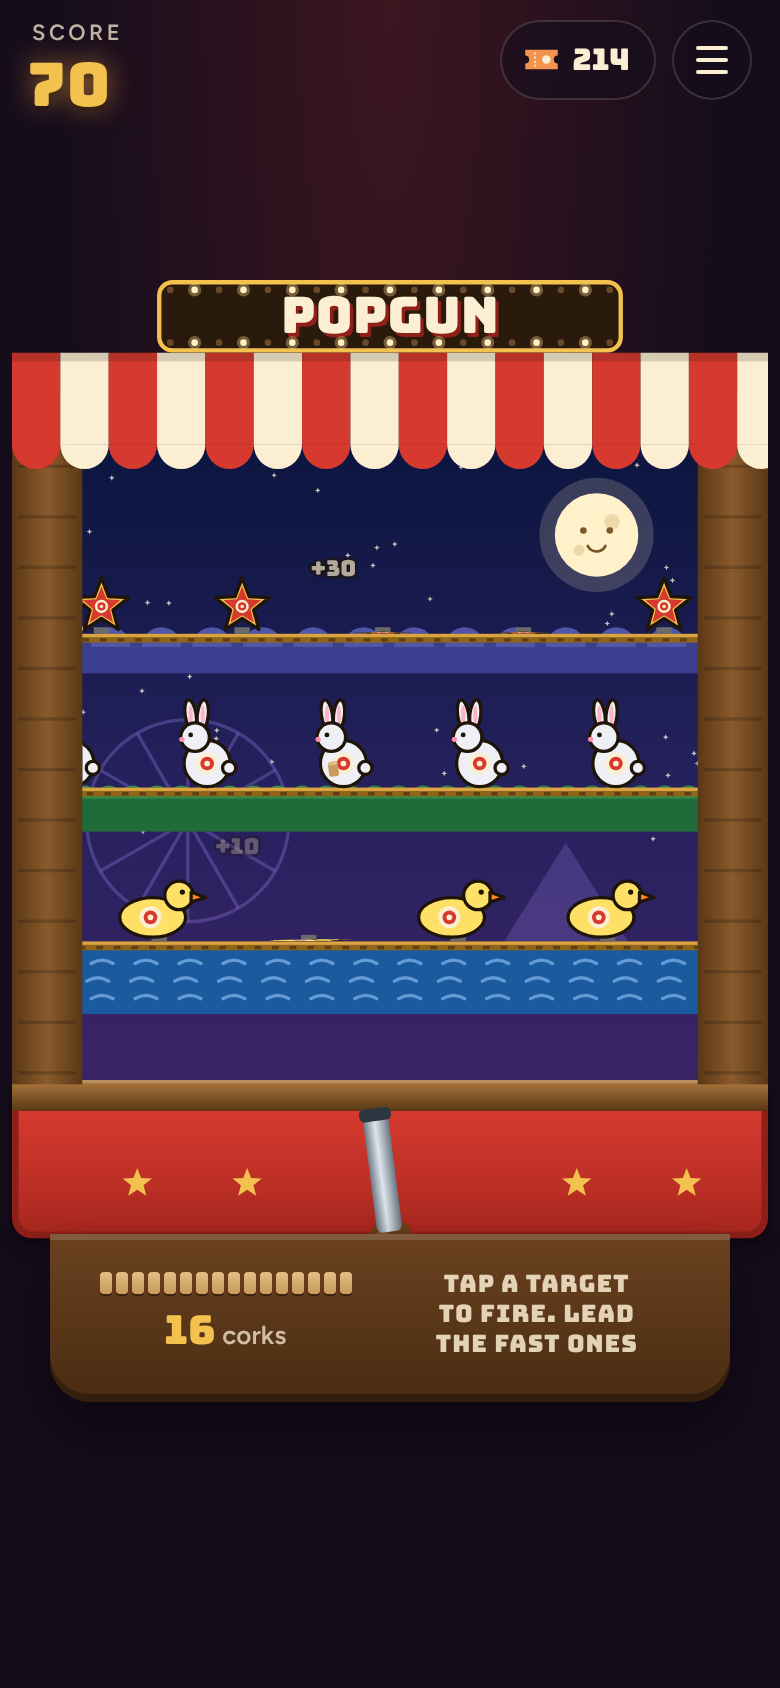
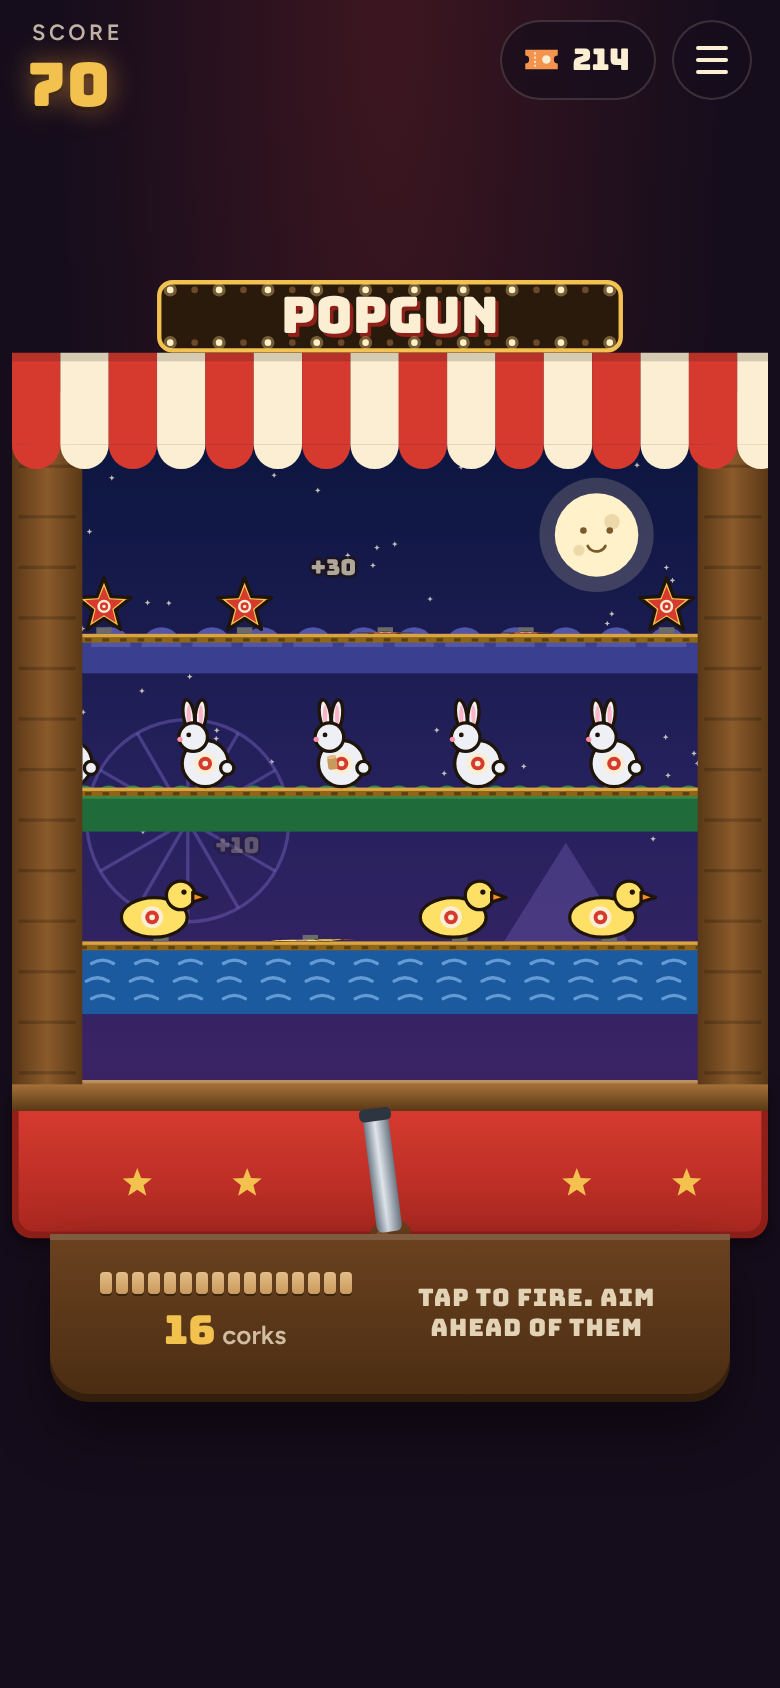
Popgun says aim ahead, and a cork that lands behind its target says so
A cork takes 0.32 s to reach the back of the booth. In that time a star
runs 43 to 67 units and a rabbit 28 to 44, against hit zones of 17.6 and
22.4 either side of their middles, so a tap dead on a rabbit or a star
can never hit it, which is what the title card's 'Tap a target to fire'
invites. The only sign was a 5 px puff in the gap behind the target. The
title card now says to tap where the cork should go and how far ahead to
aim (a little for the ducks, half a rabbit, a whole star), the deck says
'Tap to fire. Aim ahead of them', and so do the README and the page's
description. The gallery notes the tin under the tap as the cork goes,
and a miss at a tin that is still standing says which one it was behind.
The first three of those in a round pop 'Aim ahead!' over a bigger puff.
Nothing about what hits or scores changes.

Claude-Session: https://claude.ai/code/session_01RkvUFhzoaPZyofz3pSrJ5i

diff --git a/popgun/index.html b/popgun/index.html
@@ -5,7 +5,7 @@
   <meta name="viewport" content="width=device-width, initial-scale=1, viewport-fit=cover">
   <script src="../shared/carry.js"></script>
   <title>Popgun · Free Play</title>
-  <meta name="description" content="A carnival shooting gallery on your phone. Tap to fire corks at the tin ducks, rabbits and stars running along the rails, and lead the fast ones. Twenty corks a round, and tickets for your score.">
+  <meta name="description" content="A carnival shooting gallery on your phone. Tap to fire corks at the tin ducks, rabbits and stars running along the rails, and aim ahead of them. Twenty corks a round, and tickets for your score.">
   <meta property="og:title" content="Popgun, at Free Play">
   <meta property="og:description" content="A carnival shooting gallery on your phone: corks, tin ducks and tickets.">
   <meta property="og:image" content="https://free-play.junkdrawer.works/og.png">
@@ -41,7 +41,7 @@
 
   <div class="deck" id="deck">
     <div class="corks" aria-live="polite"><span class="tray" id="tray" aria-hidden="true"></span><span><b id="left">20</b> <span id="corksWord">corks</span></span></div>
-    <span class="say">Tap a target to fire. Lead the fast ones</span>
+    <span class="say">Tap to fire. Aim ahead of them</span>
   </div>
   <p class="sr" id="live" aria-live="polite"></p>
 
@@ -49,7 +49,7 @@
     <a class="floor to-floor" href="../">← Free Play</a>
     <div class="marquee"><h1>Popgun</h1></div>
     <p class="lede">A shooting gallery. Twenty corks, and tin targets running along the rails.</p>
-    <p class="how">Tap a target to fire a cork at it. The cork takes a moment to get there, so aim a little ahead of the fast ones. Ducks are 10, rabbits 20, and the little stars up top 30. A golden duck is 100, and a cork in the bell wins three more corks. Five hits in a row are worth 50 more. A ticket for every 20 points.</p>
+    <p class="how">Tap where you want the cork to go. It takes a moment to get there, so aim ahead of the targets: a little for the ducks, half a rabbit for the rabbits and a whole star for the stars. Ducks are 10, rabbits 20, and the little stars up top 30. A golden duck is 100, and a cork in the bell wins three more corks. Five hits in a row are worth 50 more. A ticket for every 20 points.</p>
     <p class="how keys">With a mouse, click to fire. On a keyboard: the arrows move the sights, and Space fires.</p>
     <div class="row">
       <button type="button" class="big" id="play">Play</button>

diff --git a/popgun/js/draw.js b/popgun/js/draw.js
@@ -174,7 +174,7 @@ export function createDraw(canvas) {
   }
 
   // s: what to draw. g: the gallery. aim: where the gun points ({ x, y }, on the back of the booth). cross: show a
-  // crosshair there. marks: misses on the backdrop ({ x, y, t }). pops: what a hit was worth ({ x, y, text, t, gold }).
+  // crosshair there. marks: misses on the backdrop ({ x, y, t, big }). pops: what a hit was worth ({ x, y, text, t, gold }).
   // recoil: seconds since the last shot. wink: seconds since the moon was hit (or -1). glow: the sign's bulbs blazing.
   function frame(g, { now = 0, aim = { x: W / 2, y: H / 2 }, cross = false, marks = [], pops = [], recoil = 9, wink = -1, glow = 0, jog = -1, ready = true } = {}) {
     const t = now / 1000;
@@ -202,9 +202,10 @@ export function createDraw(canvas) {
     }
     for (const m of marks) {
       ctx.globalAlpha = Math.max(0, 1 - m.t / 1.2);
-      ctx.fillStyle = 'rgba(20, 10, 0, .5)'; ctx.beginPath(); ctx.arc(m.x, m.y, 5, 0, Math.PI * 2); ctx.fill();
+      ctx.fillStyle = 'rgba(20, 10, 0, .5)'; ctx.beginPath(); ctx.arc(m.x, m.y, m.big ? 8 : 5, 0, Math.PI * 2); ctx.fill();
       ctx.strokeStyle = 'rgba(255, 240, 210, .6)'; ctx.lineWidth = 1.5;
-      for (let i = 0; i < 6; i++) { const a = i * Math.PI / 3, r0 = 7 + m.t * 10, r1 = 11 + m.t * 16; ctx.beginPath(); ctx.moveTo(m.x + Math.cos(a) * r0, m.y + Math.sin(a) * r0); ctx.lineTo(m.x + Math.cos(a) * r1, m.y + Math.sin(a) * r1); ctx.stroke(); }
+      const k = m.big ? 1.5 : 1;
+      for (let i = 0; i < 6; i++) { const a = i * Math.PI / 3, r0 = 7 * k + m.t * 10, r1 = 11 * k + m.t * 16; ctx.beginPath(); ctx.moveTo(m.x + Math.cos(a) * r0, m.y + Math.sin(a) * r0); ctx.lineTo(m.x + Math.cos(a) * r1, m.y + Math.sin(a) * r1); ctx.stroke(); }
     }
     ctx.globalAlpha = 1;
     for (const row of g.rows) for (const tg of row.targets) target(ctx, tg.kind, tg.x, row.rail, row.dir, tg.down, t);

diff --git a/popgun/js/gallery.js b/popgun/js/gallery.js
@@ -90,7 +90,9 @@ export function createGallery({ random = Math.random } = {}) {
     if (!corks || reload > 0 || over) return false;
     corks--; shots++;
     reload = RELOAD;
-    flights.push({ to: { x, y }, t: 0 });
+    // the tin under the tap as it fires: if the cork misses and that tin's still standing, it ran on ahead of the cork
+    const at = targetAt(x, y);
+    flights.push({ to: { x, y }, t: 0, at: at && at.t, kind: at && at.t.kind });
     events.push('pop');
     return true;
   }
@@ -98,7 +100,12 @@ export function createGallery({ random = Math.random } = {}) {
   // A cork arriving: it knocks over whatever it meets there, or thuds into the backdrop.
   function land(f) {
     const at = targetAt(f.to.x, f.to.y);
-    if (!at) { streak = 0; events.push({ miss: true, x: f.to.x, y: f.to.y }); return; }
+    if (!at) {
+      streak = 0;
+      const behind = f.at && !f.at.hit && f.at.kind === f.kind ? f.kind : undefined;
+      events.push(behind ? { miss: true, x: f.to.x, y: f.to.y, behind } : { miss: true, x: f.to.x, y: f.to.y });
+      return;
+    }
     const { t } = at, k = KINDS[t.kind];
     t.hit = true;
     hits++; streak++;
@@ -124,7 +131,8 @@ export function createGallery({ random = Math.random } = {}) {
     get ready() { return reload === 0 && corks > 0 && !over; },
     get over() { return over; },
     // what's happened since the last look: 'pop', { hit, x, y, points, corks, run }, { miss, x, y }, 'over', and
-    // { arrive, x, y } as a golden duck or a bell comes round into view
+    // { arrive, x, y } as a golden duck or a bell comes round into view. A miss at a tin that was under the tap when
+    // the cork went, and has run on ahead of it, says which: { miss, x, y, behind: 'star' }.
     take() { const e = events; events = []; return e; },
   };
 }

diff --git a/popgun/js/app.js b/popgun/js/app.js
@@ -65,13 +65,14 @@ let gallery = createGallery();
 let mode = 'title';           // title → play → over
 let aim = { x: W / 2, y: H / 2 }, cross = false, recoil = 9, wink = -1, glow = 0, jog = -1, paused = false, timeScale = 1;
 let endIn = 0;                // seconds from the last cork landing to the end card, on the round's clock (it waits while paused)
+let told = 0;                 // how many times this round a cork that landed behind its target has said 'Aim ahead!'
 const marks = [], pops = [];
 const carded = () => !$('title').hidden || !$('over').hidden || !$('menu').hidden || counterOpen();
 
 function newRound() {
   gallery = createGallery();
   mode = 'play';
-  marks.length = 0; pops.length = 0; endIn = 0;
+  marks.length = 0; pops.length = 0; endIn = 0; told = 0;
   hud();
 }
 
@@ -99,7 +100,11 @@ function happened() {
     else if (e.miss) {
       const moon = Math.hypot(e.x - MOON.x, e.y - MOON.y) < MOON.r;
       if (moon) { wink = 0; sound.boing(); } else sound.miss();
-      marks.push({ x: e.x, y: e.y, t: 0 });
+      // A cork that landed behind the tin it was fired at, which ran on while it flew: the first few times in a round,
+      // a bigger puff and a word, since a tap dead on a rabbit or a star can't ever catch it.
+      const ahead = e.behind && told < 3;
+      if (ahead) { told++; pops.push({ x: Math.max(80, Math.min(W - 80, e.x)), y: e.y, text: 'Aim ahead!', t: 0 }); }
+      marks.push({ x: e.x, y: e.y, t: 0, big: ahead });
     } else if (e.hit) {
       sound.hit(e.hit);
       if (e.corks) { pops.push({ x: e.x, y: e.y, text: `+${e.corks} corks`, t: 0, gold: true }); say(`The bell! ${e.corks} more corks.`); }

diff --git a/README.md b/README.md
@@ -118,8 +118,8 @@ A stacker: a tower against a night skyline, its windows the grid, seven across a
 
 A carnival shooting gallery: a booth with a striped awning, a painted night fair behind, and three rows of tin targets running along brass rails, each row the other way from the one below.
 
-- **Tap a target to fire** a cork at it from the popgun on the counter. (With a mouse, the pointer becomes the sights; on a keyboard, the arrows move them and Space fires.) A round is 20 corks, and the gun takes a moment to reload between them.
-- **Lead the fast ones.** A cork takes about a third of a second to reach the back of the booth, and the targets keep moving, so aim a little ahead of them: a little for the ducks, more than a star's width for the stars. Each row's motor surges a bit faster and a bit slower as it runs, so the lead that worked a moment ago won't quite now.
+- **Tap where you want the cork to go** and the popgun on the counter fires it there. (With a mouse, the pointer becomes the sights; on a keyboard, the arrows move them and Space fires.) A round is 20 corks, and the gun takes a moment to reload between them.
+- **Aim ahead.** A cork takes about a third of a second to reach the back of the booth, and the targets keep moving, so a tap dead on a rabbit or a star lands behind it. Aim a little ahead of the ducks, half a rabbit ahead of the rabbits and a whole star ahead of the stars. The first few corks in a round that land just behind their target say so. Each row's motor surges a bit faster and a bit slower as it runs, so what worked a moment ago won't quite now.
 - **What they're worth.** Ducks along the pond at the bottom are 10, rabbits in the middle 20, and the small fast stars up top 30. Now and then a golden duck comes along, worth 100, and a bell, which wins three more corks. Five hits in a row are worth 50 more. A target knocked flat stands up again once it's been round the back of the conveyor.
 - A ticket for every 20 points, paid at the end of the round. (Try the moon.)
 
